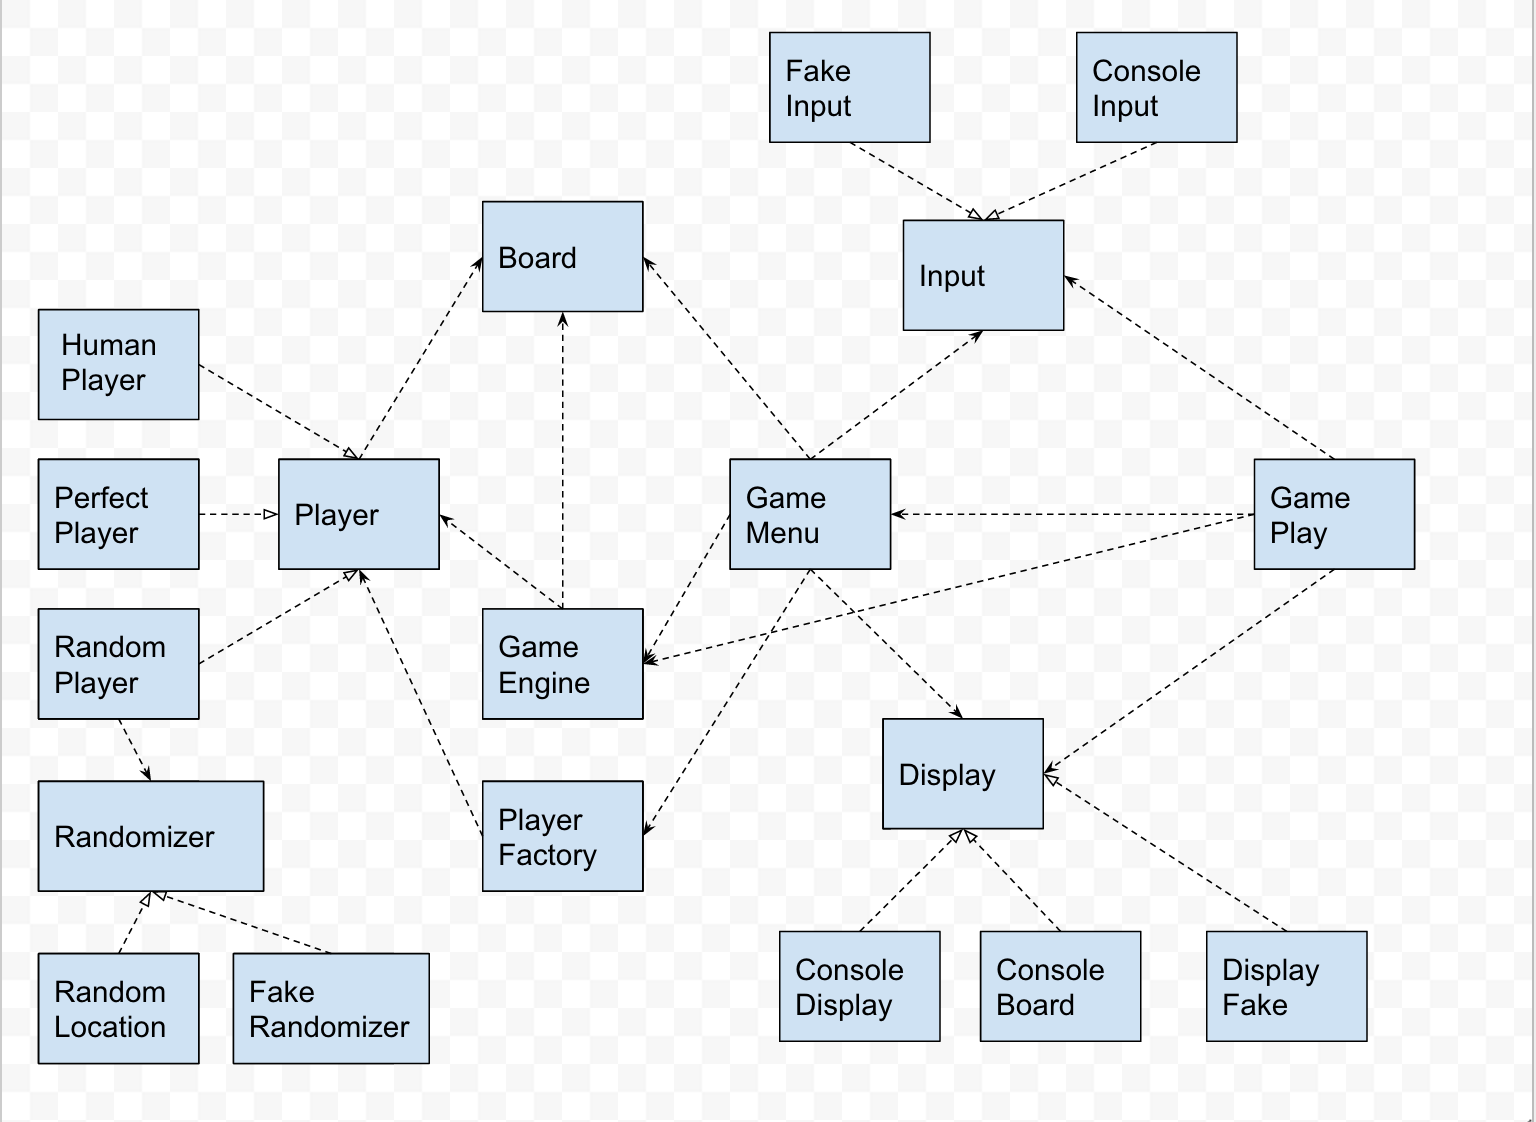
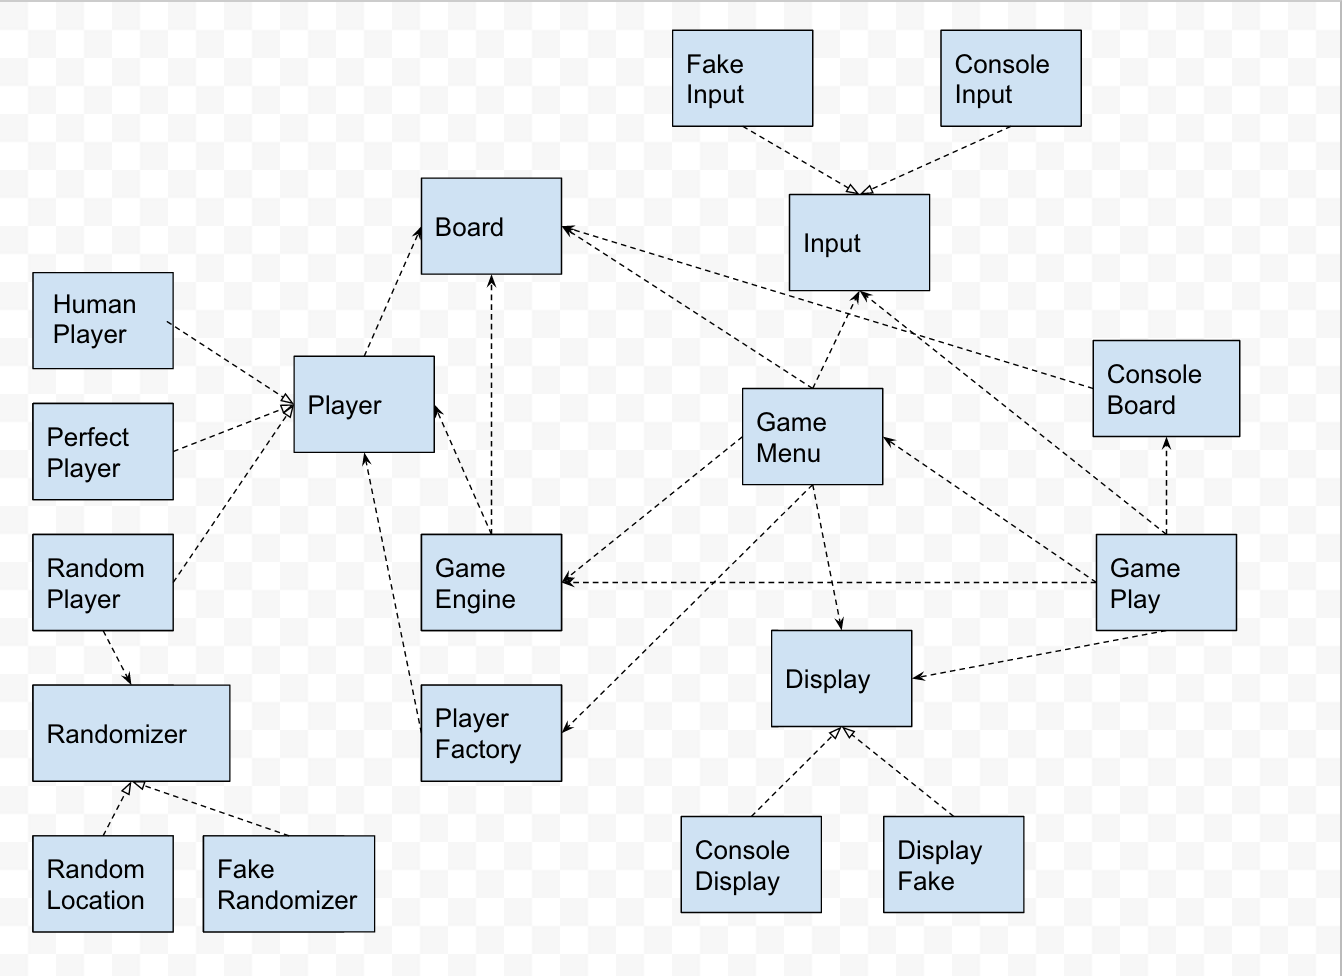
rename GamePlay to GameLoop

diff --git a/src/main/java/ttt/PerfectPlayer.java b/src/main/java/ttt/PerfectPlayer.java
@@ -7,7 +7,6 @@ public class PerfectPlayer implements Player {
     private Marks mark;
     private Marks opponent;
     private HashMap<Integer, Integer> scores = new HashMap<>();
-    private Map.Entry<Integer, Integer> bestMove;
 
     public PerfectPlayer(Marks mark) {
         this.mark = mark;
@@ -57,6 +56,7 @@ public class PerfectPlayer implements Player {
     }
 
     private int bestMove() {
+        Map.Entry<Integer, Integer> bestMove = null;
         for (Map.Entry<Integer, Integer> entry : scores.entrySet()) {
             if (bestMove == null || entry.getValue().compareTo(bestMove.getValue()) > 0) {
                 bestMove = entry;
@@ -72,7 +72,6 @@ public class PerfectPlayer implements Player {
 
     private void resetMoveSelection() {
         scores = new HashMap();
-        bestMove = null;
     }
 
     public Marks opponentMark() {

diff --git a/src/main/java/ttt/ComputerPlayer.java b/src/main/java/ttt/ComputerPlayer.java
@@ -7,18 +7,14 @@ import java.util.Objects;
 public class ComputerPlayer implements Player{
 
     private Randomizer randomizer;
-    private List<Integer> locations = new ArrayList();
     private Marks mark;
 
     public ComputerPlayer(Randomizer randomizer, Marks mark) {
         this.randomizer = randomizer;
-        for (int cells = 0; cells < 9; cells++) {
-            locations.add(cells);
-        }
         this.mark = mark;
     }
 
-    public String getLocation(Input inputFeed, Board board) {
+    public String getLocation(Input input, Board board) {
         int location = randomizer.location(board.availableMoves());
         return String.valueOf(location);
     }

diff --git a/src/test/java/ttt/GamePlayTest.java b/src/test/java/ttt/GamePlayTest.java
@@ -8,7 +8,7 @@ import static org.junit.Assert.assertEquals;
 
 public class GamePlayTest {
 
-    private GamePlay gameplay;
+    private GameLoop gameplay;
     private DisplayFake display;
     private InputFake input;
 
@@ -21,7 +21,7 @@ public class GamePlayTest {
         GameEngine gameEngine = new GameEngine(player1, player2, board);
         this.input = new InputFake();
         this.display = new DisplayFake();
-        this.gameplay = new GamePlay(gameEngine, input, display, consoleBoard);
+        this.gameplay = new GameLoop(gameEngine, input, display, consoleBoard);
     }
 
     @Test

diff --git a/src/main/java/ttt/GameLoop.java b/src/main/java/ttt/GameLoop.java
@@ -1,12 +1,12 @@
 package ttt;
 
-public class GamePlay {
+public class GameLoop {
     private GameEngine gameEngine;
     private Display display;
     private Input input;
     private ConsoleBoard consoleBoard;
 
-    public GamePlay(GameEngine gameEngine, Input input, Display output, ConsoleBoard consoleBoard) {
+    public GameLoop(GameEngine gameEngine, Input input, Display output, ConsoleBoard consoleBoard) {
         this.gameEngine = gameEngine;
         this.display = output;
         this.input = input;

diff --git a/src/main/java/ttt/ConsoleDisplay.java b/src/main/java/ttt/ConsoleDisplay.java
@@ -4,8 +4,7 @@ public class ConsoleDisplay implements Display {
 
     public void gameOptions() {
         write("How would you like to play?");
-        write("1. Human v Human - you go first");
-        write("2. Human v Human - your opponent goes first");
+        write("1. Human v Human");
         write("3. Human v Random Computer");
         write("4. Random Computer v Human");
         write("5. Human v Perfect Computer");

diff --git a/src/main/java/ttt/Main.java b/src/main/java/ttt/Main.java
@@ -7,7 +7,7 @@ public class Main {
         ConsoleBoard consoleBoard = new ConsoleBoard();
         ConsoleInput input = new ConsoleInput();
         GameMenu menu = new GameMenu(input, display);
-        GamePlay gameplay = new GamePlay(menu.createGame(), input, display, consoleBoard);
+        GameLoop gameplay = new GameLoop(menu.createGame(), input, display, consoleBoard);
         gameplay.start();
     }
 }

diff --git a/src/test/java/ttt/ComputerPlayerTest.java b/src/test/java/ttt/ComputerPlayerTest.java
@@ -10,7 +10,7 @@ import static org.junit.Assert.assertFalse;
 public class ComputerPlayerTest {
 
     @Test
-    public void returnsARandomInteger() {
+    public void returnsARandomLocation() {
         Input input = new InputFake();
         Board board = new Board();
         ComputerPlayer computer = new ComputerPlayer(new FakeRandomizer(), Marks.X);

diff --git a/src/test/java/ttt/InputTest.java b/src/test/java/ttt/InputTest.java
@@ -12,4 +12,9 @@ public class InputTest {
         input.set("Hello");
         assertEquals("Hello", input.get());
     }
+
+    @Test
+    public void onlyTakesNumbers() {
+
+    }
 }

diff --git a/src/main/java/ttt/Input.java b/src/main/java/ttt/Input.java
@@ -2,6 +2,5 @@ package ttt;
 
 public interface Input {
     String get();
-
 }
 
